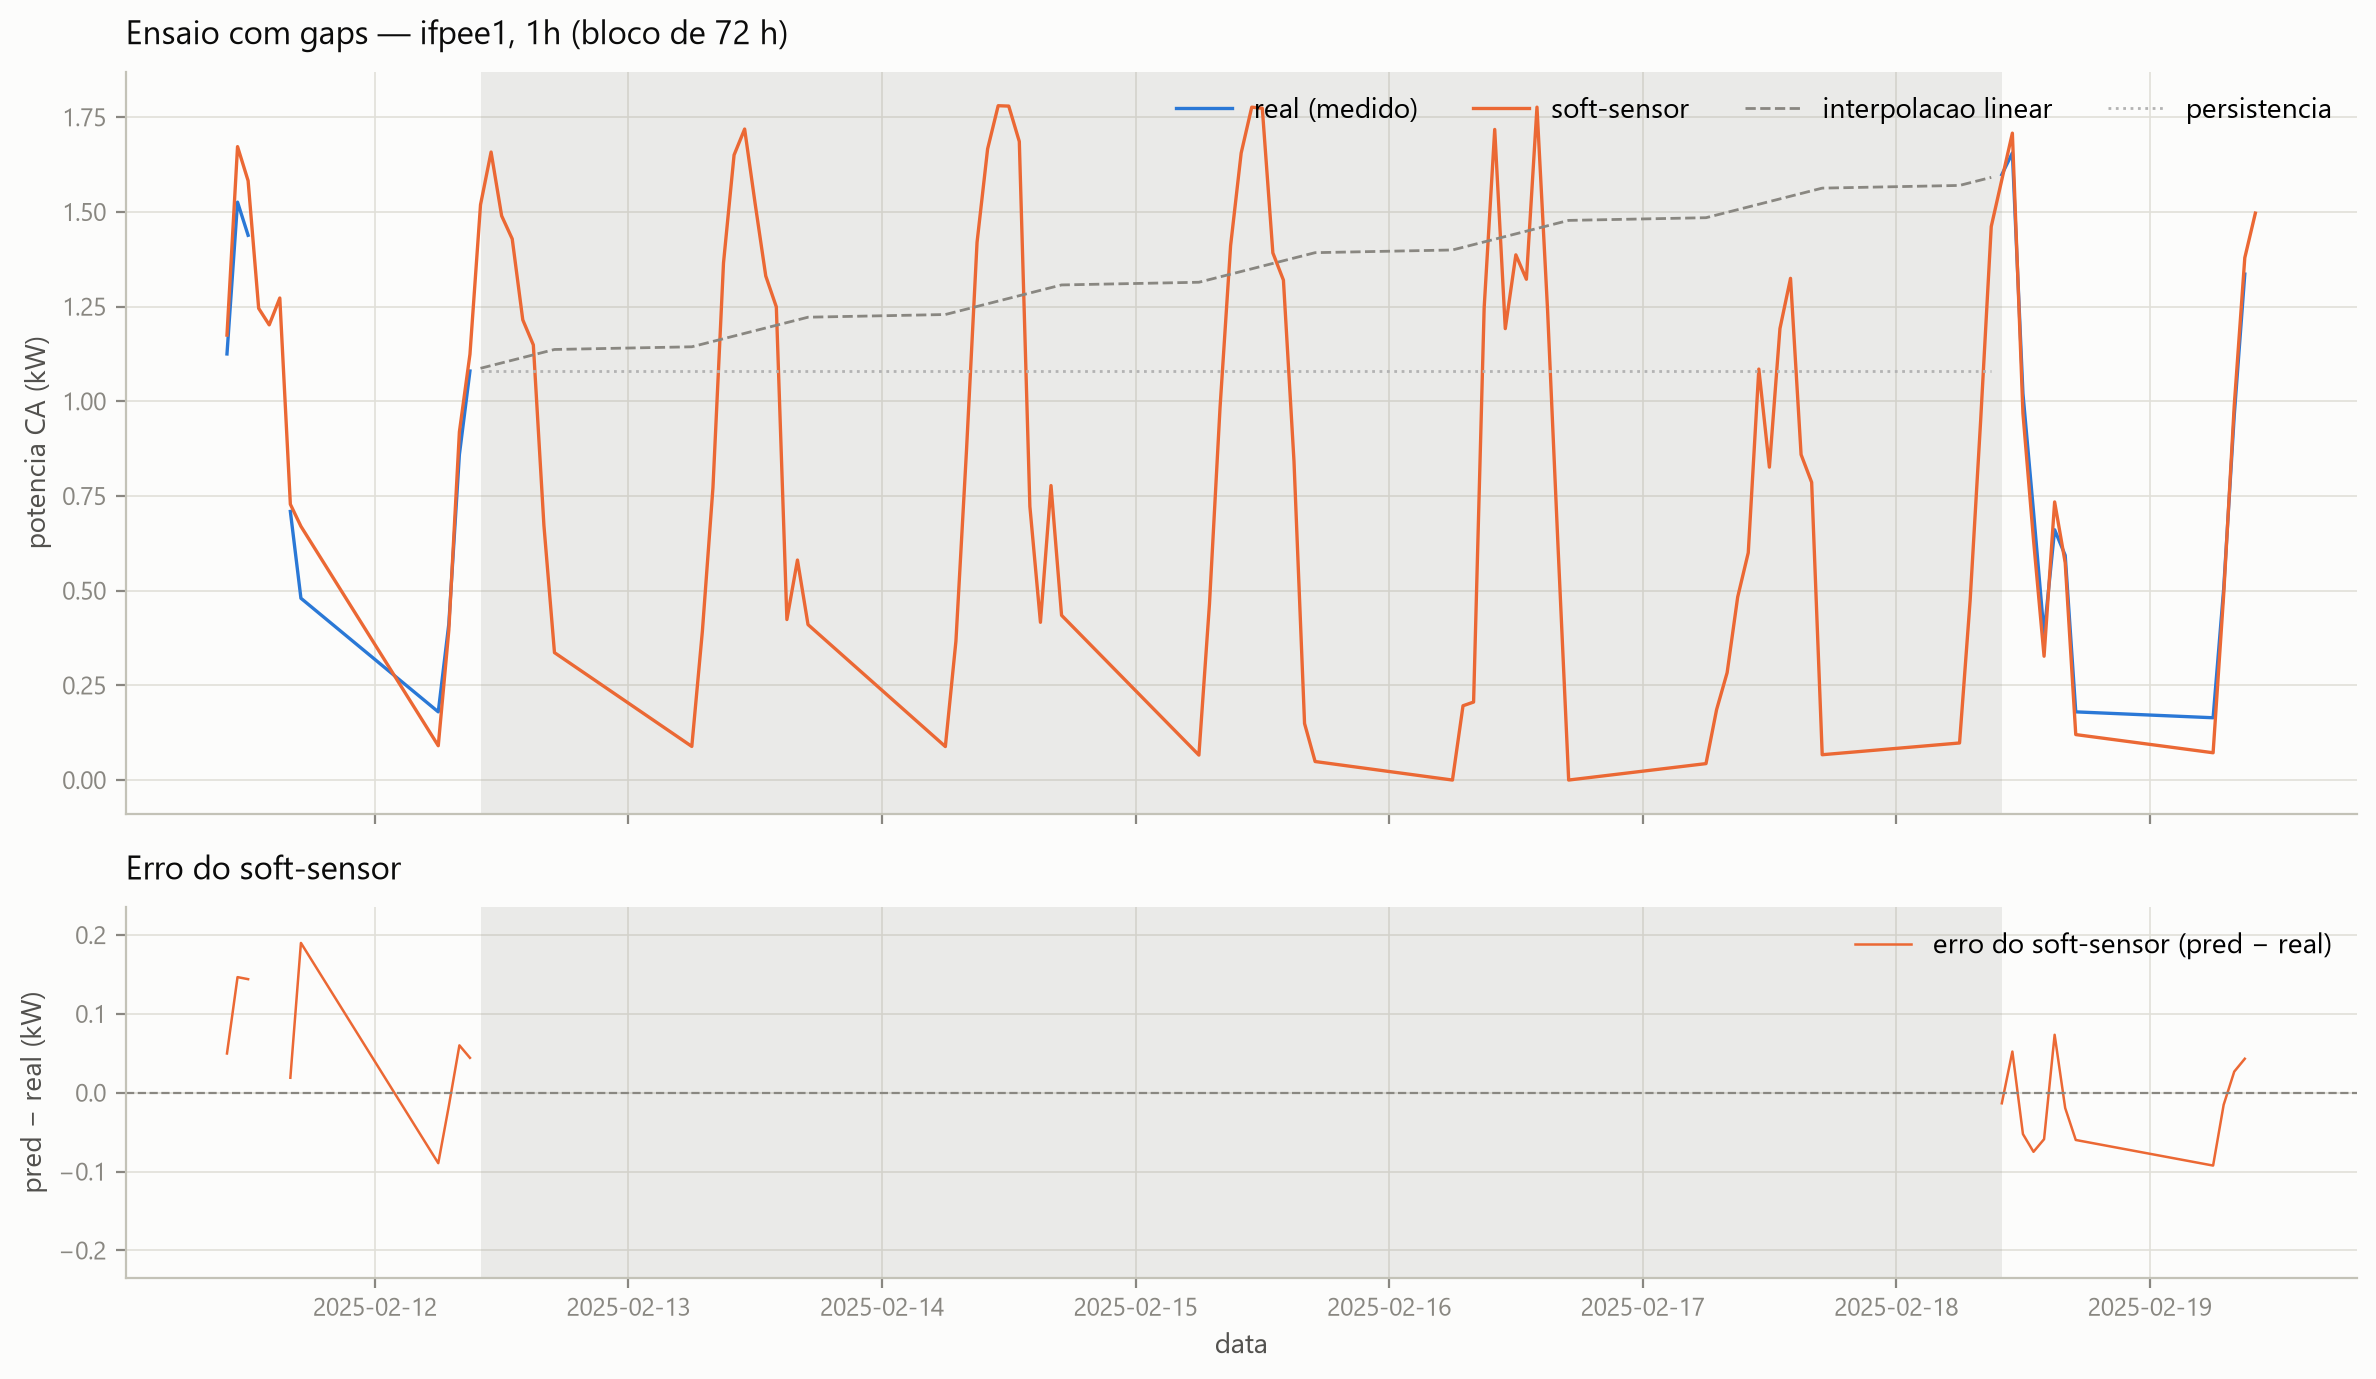
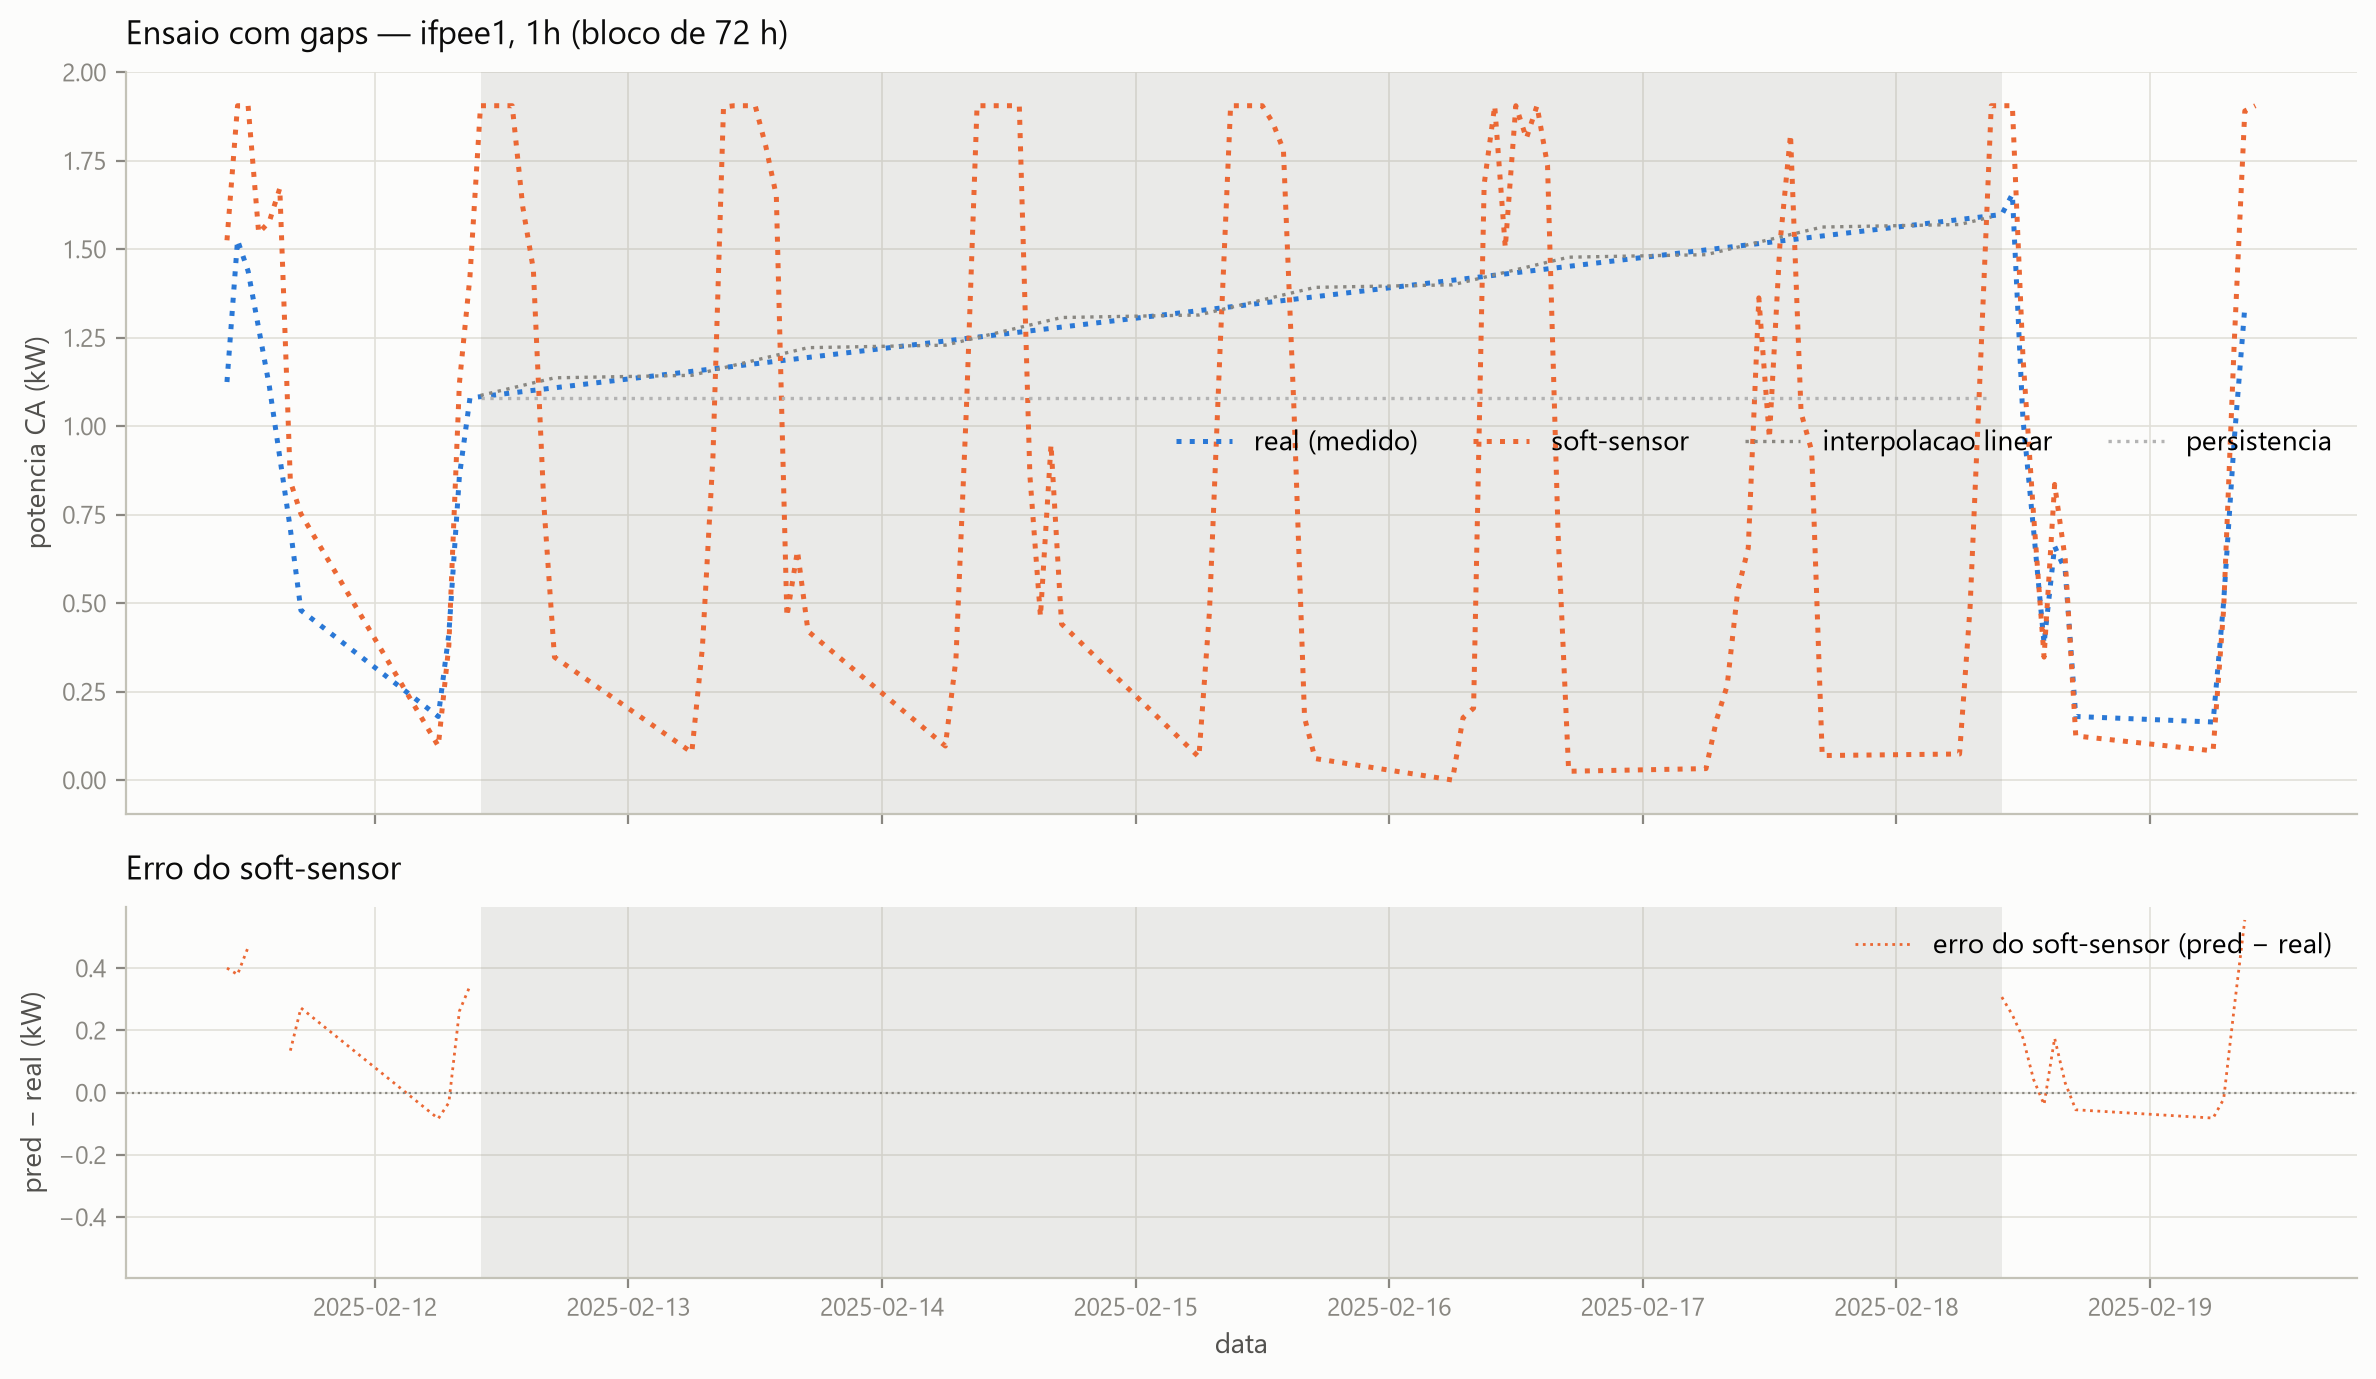
docs(TCC): update metodologia

diff --git a/docs/conteudo/metodologia.tex b/docs/conteudo/metodologia.tex
@@ -469,8 +469,9 @@ Para a execução embarcada, o modelo foi exportado no formato SavedModel e
 convertido para TensorFlow Lite \cite{abadi2016}. O script
 \url{utils/exportar_mlp_ei.py} automatizou o envio do modelo ao Edge Impulse
 Studio \cite{edgeimpulse2024} e o posterior download da biblioteca C++
-compilada pela plataforma, utilizando a amostra de calibração e os parâmetros
-de normalização estimados no treino. Essa biblioteca reuniu o SDK de
+compilada pela plataforma, utilizando a amostra de calibração para a
+quantização e os parâmetros de normalização estimados no treino para gerar o
+cabeçalho de normalização do firmware. Essa biblioteca reuniu o SDK de
 inferência do TensorFlow Lite for Microcontrollers \cite{tflitemicro2024},
 os parâmetros do modelo e o código gerado pelo Studio,
 sendo instalada diretamente em \url{lib/knob-senses/}. A biblioteca foi
@@ -631,7 +632,7 @@ UART0. O host conservou os valores medidos de PCA e, após receber as
 estimativas processadas, calculou os erros e as métricas de avaliação. O
 gancho de inferência (\texttt{runInference()}) constitui o ponto de aquisição:
 em campo, é nele que entram os dados dos sensores da usina, sem alteração do
-restante do pipeline. As constantes de operação (1 amostra, 3 eixos e quadro
+restante do pipeline. As constantes de operação (3 amostras, 1 eixo e quadro
 de 3 \textit{floats}) vêm dos cabeçalhos gerados para cada modelo. O período
 nominal de inferência (10~ms no RF e 1~ms no MLP) corresponde ao ritmo da
 operação em tempo real; no ensaio, porém, esse período foi dispensado, e o
@@ -640,13 +641,15 @@ processamento acompanhou a velocidade dos lotes.
 O contrato de entrada é explícito: durante o ensaio, o host transmitiu sempre
 as três grandezas meteorológicas em seus valores originais, sem enviar PCA
 medido, rótulos ou parâmetros de pós-processamento. No caminho RF, a
-normalização \textit{z-score} é realizada dentro da biblioteca; no caminho
-MLP, o SDK do Edge Impulse aplica o escalonador embutido no impulso. A
+normalização \textit{z-score} é realizada dentro da biblioteca. No caminho
+MLP, o SDK do Edge Impulse não aplica normalização; o firmware normaliza as
+três entradas pelo método \textit{min-max}, com as constantes do treino
+compiladas em um cabeçalho gerado, antes de montar o sinal de inferência. A
 inversa de Box-Cox, a subtração de $\varepsilon$, a correção de viés e a
 limitação da saída também são executadas no firmware; o host realiza apenas
 a comparação entre a estimativa recebida e o valor medido mantido localmente.
 A arena de memória do TensorFlow Lite ocupa 3\,174~bytes; o RF é código
-	extit{inline}, sem tabela em RAM, e seu custo de flash é medido no objeto
+	\textit{inline}, sem tabela em RAM, e seu custo de flash é medido no objeto
 compilado. O laço de execução registra atrasos de período
 (\textit{overruns}) e falhas de troca (\textit{dropouts}, com retentativa da
 mesma amostra), trata erros de inferência como fatais e monitora o heap livre
